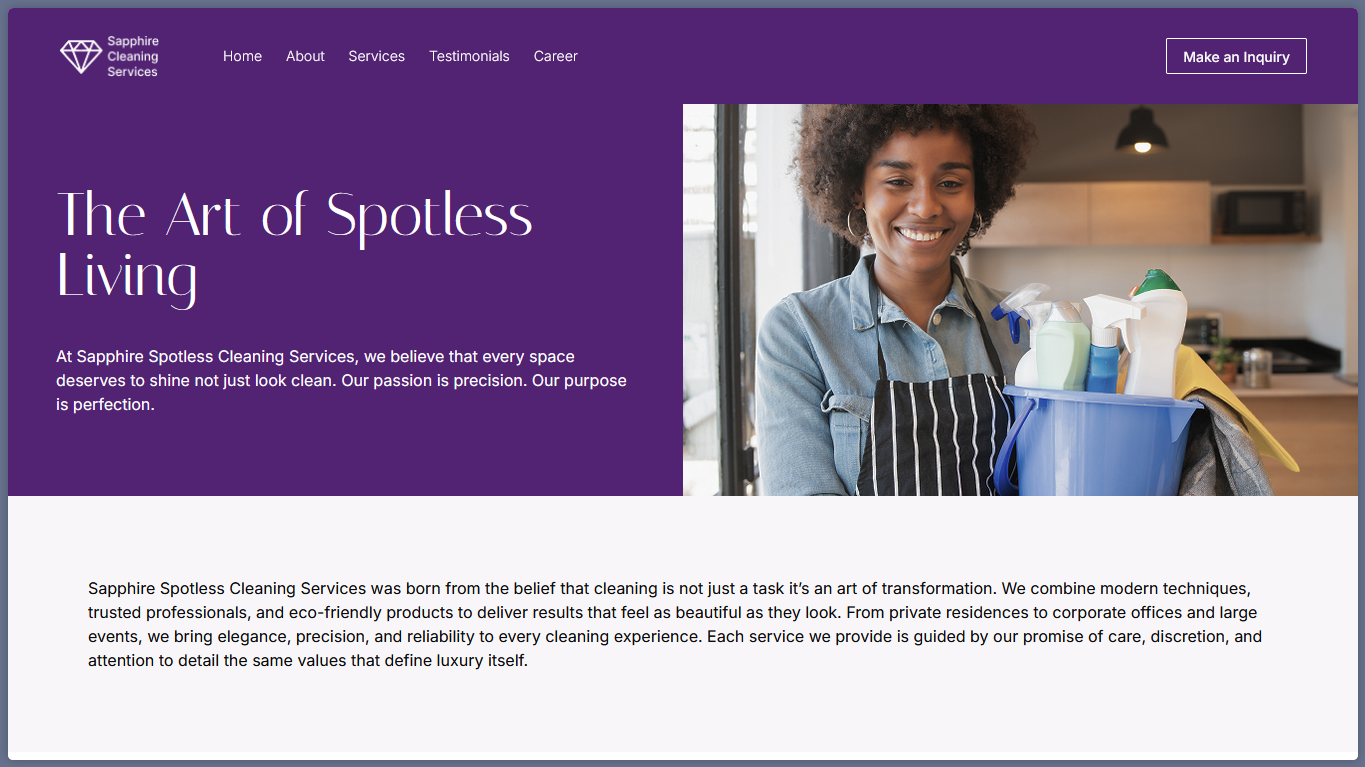
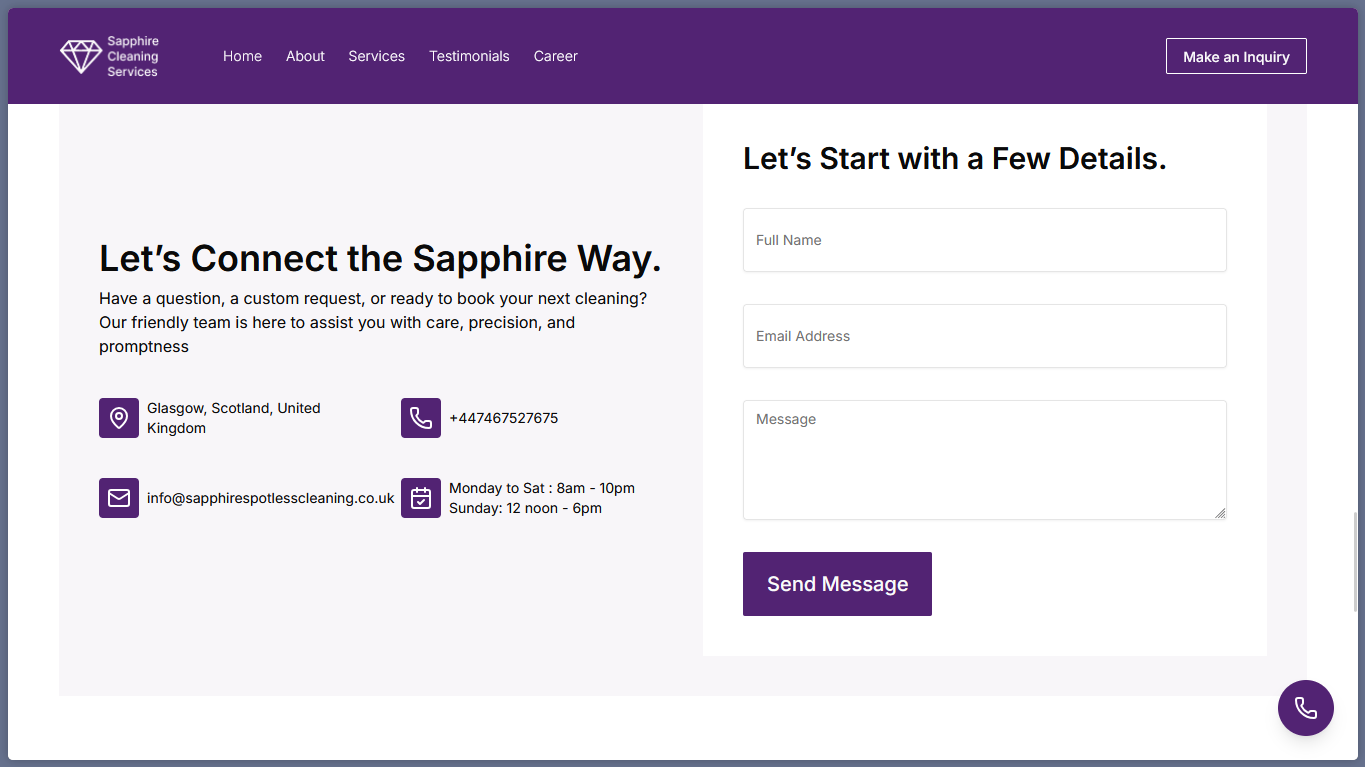
fix: update image assets for sapphirespotlesscleaning project and remove obsolete screenshot

diff --git a/portfolio/sapphirespotlesscleaning.html b/portfolio/sapphirespotlesscleaning.html
@@ -1,4 +1,4 @@
-<!DOCTYPE html>
+<!doctype html>
 <html lang="en">
   <head>
     <meta charset="utf-8" />
@@ -90,11 +90,6 @@
                 />
                 <img
                   src="../assets/img/sapphirespotlesscleaning/screenshot-6.png"
-                  class="img-fluid"
-                  alt="project image"
-                />
-                <img
-                  src="../assets/img/sapphirespotlesscleaning/screenshot-7.png"
                   class="img-fluid"
                   alt="project image"
                 />
